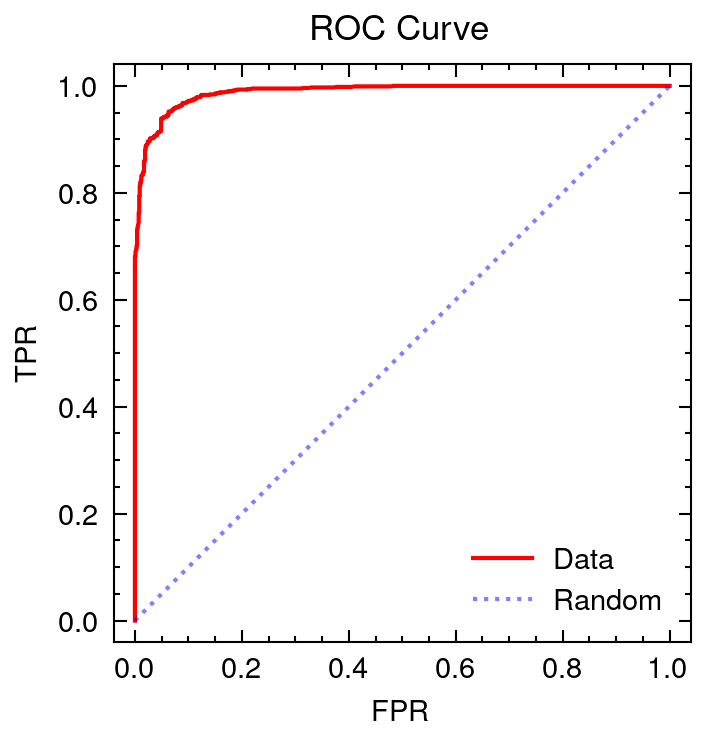
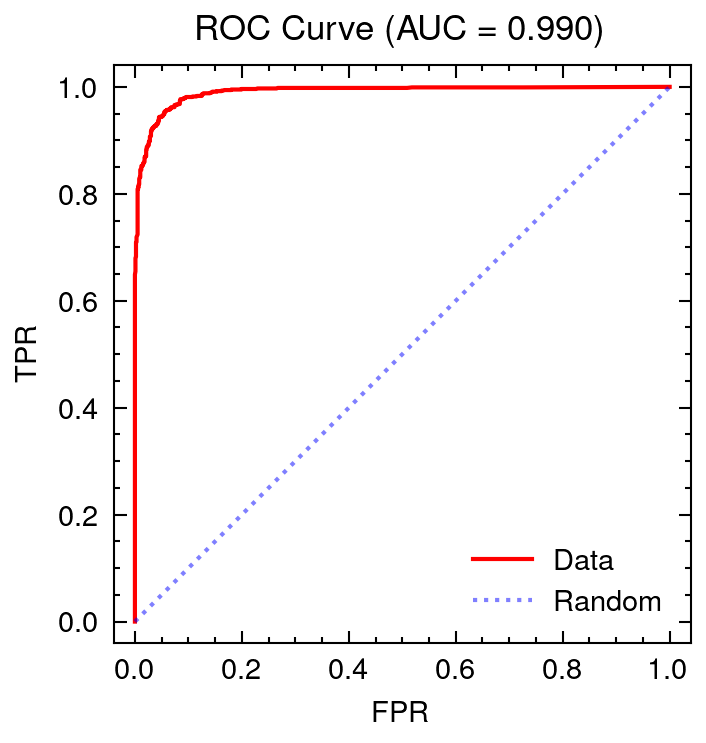
Implement AUC

diff --git a/Machine_Learning/svm/src/main.rs b/Machine_Learning/svm/src/main.rs
@@ -46,6 +46,7 @@ fn main() {
     let AB = platt_scaling(&y, &f_hat);
     let z  = sigmoid(&f_hat, AB.0, AB.1);
 
+    // ROC curve
     let thr = linspace(0f64, 1f64, N*2);
     let mut tpr = vec![];
     let mut fpr = vec![];
@@ -55,6 +56,10 @@ fn main() {
         tpr.push(cm.tpr());
         fpr.push(cm.fpr());
     }
+    
+    // AUC
+    let auc = auc(&tpr, &fpr);
+    auc.print();
 
     let mut df = DataFrame::new(vec![]);
     df.push("x", Series::new(X.col(0)));
@@ -67,10 +72,11 @@ fn main() {
     df.push("z", Series::new(z));
     df.push("tpr", Series::new(tpr));
     df.push("fpr", Series::new(fpr));
+    df.push("auc", Series::new(vec![auc]));
 
     df.print();
 
-    df.write_parquet("svm.parquet", CompressionOptions::Uncompressed).unwrap();
+    df.write_nc("svm.nc").unwrap();
 }
 
 struct SVM {
@@ -282,6 +288,26 @@ fn logistic_transform(x: &Vec<f64>, AB: Vec<AD>) -> Option<Vec<AD>> {
             .map(|t| 1f64 / (1f64 + (AB[0] * t + AB[1]).exp()))
             .collect()
     )
+}
+
+fn auc(tpr: &Vec<f64>, fpr: &Vec<f64>) -> f64 {
+    let mut auc    = 0f64;
+    let mut t_prev = 0f64;
+    let mut f_prev = 0f64;
+    let mut tf = tpr.iter().zip(fpr.iter()).collect::<Vec<_>>();
+    tf.sort_by(|a, b| a.1.partial_cmp(b.1).unwrap());
+
+    for (&t, &f) in tf.into_iter() {
+        if t == t_prev || f == f_prev {
+            continue;
+        } else {
+            auc += (t + t_prev) * (f - f_prev) / 2f64;
+            t_prev = t;
+            f_prev = f;
+        }
+    }
+
+    auc
 }
 
 #[allow(non_snake_case)]

diff --git a/Machine_Learning/svm/svm_plot.py b/Machine_Learning/svm/svm_plot.py
@@ -1,25 +1,28 @@
 import matplotlib.pyplot as plt
+from netCDF4 import Dataset
 import pandas as pd
 import numpy as np
 import scienceplots
 
 # Import netCDF file
-df = pd.read_parquet("./svm.parquet")
+ncfile = './svm.nc'
+df     = Dataset(ncfile).variables
 
 # Prepare Data to Plot
-x       = df['x']
-y       = df['y']
-g       = df['g']
-g_hat   = df['g_hat']
-w       = df['w']
-b       = df['b']
-f_hat   = df['f_hat']
-z       = df['z']
-tpr     = df['tpr']
-fpr     = df['fpr']
+x       = df['x'][:]
+y       = df['y'][:]
+g       = df['g'][:]
+g_hat   = df['g_hat'][:]
+w       = df['w'][:]
+b       = df['b'][0]
+f_hat   = df['f_hat'][:]
+z       = df['z'][:]
+tpr     = df['tpr'][:]
+fpr     = df['fpr'][:]
+auc     = df['auc'][0]
 
 domain  = np.linspace(x.min(), x.max(), 1000)
-hyper   = -w[0] * domain + b[0]
+hyper   = -w[0] * domain + b
 platt   = z
 
 
@@ -64,7 +67,7 @@ with plt.style.context(["science", "nature"]):
     ax.autoscale(tight=True)
     ax.set_aspect('equal')
     ax.set(**pparam)
-    ax.set(title="ROC Curve")
+    ax.set(title=f"ROC Curve (AUC = {auc:.3f})")
     ax.set(xlim=(-0.04, 1.04))
     ax.set(ylim=(-0.04, 1.04))
     ax.set(xlabel=r'FPR')
